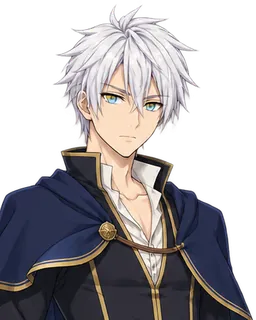
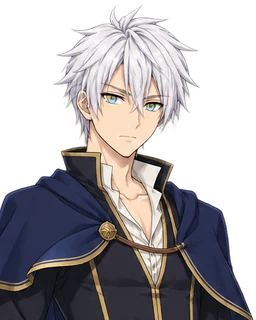
Герой: общий кадр на все эмоции, нативное разрешение (q92), видимая высота vh в раскладке VN

diff --git a/js/portrait.js b/js/portrait.js
@@ -303,16 +303,16 @@ RPG.avatarOf = (manifest, art) => (manifest && manifest.av && manifest.av[art]) 
 RPG.VN = { FR_W: 1800, FR_CX: 900, FR_T: 220, BUST: 720, SINK: 140, SLOTS: { 1: [0.5], 2: [0.28, 0.72], 3: [0.17, 0.5, 0.83] }, FACE_K: { 1: 0.5, 2: 0.4, 3: 0.3 } };
 RPG.artMetricsOf = (manifest, art, mood) => {
   const f = RPG.artFileOf(manifest, art, mood), d = f && manifest.dim && manifest.dim[f];
-  if (d && d.length >= 6) return { w: d[0], h: d[1], fx: d[3], fy: d[4], fw: d[5], img: true };
-  if (d) return { w: d[0], h: d[1], fx: d[0] / 2, fy: d[1] * 0.18, fw: d[0] * 0.32, img: true };
-  return { w: 256, h: 320, fx: 128, fy: 100, fw: 130, img: false };
+  if (d && d.length >= 6) return { w: d[0], h: d[1], fx: d[3], fy: d[4], fw: d[5], vh: d[8] || d[1], img: true };   // vh — видимая высота кадра (герой в рост: ниже — под диалогом); у остальных = h
+  if (d) return { w: d[0], h: d[1], fx: d[0] / 2, fy: d[1] * 0.18, fw: d[0] * 0.32, vh: d[1], img: true };
+  return { w: 256, h: 320, fx: 128, fy: 100, fw: 130, vh: 320, img: false };
 };
 RPG.vnLayout = (refs, W, Yb) => {
   const V = RPG.VN, n = refs.length; if (!n) return [];
   let Ft = V.FACE_K[Math.min(3, n)] * W;
-  refs.forEach((r) => { Ft = Math.min(Ft, ((Yb - 58) / ((r.h - r.fy) + 0.75 * r.fw - V.SINK)) * r.fw); });   // голова не уходит за верх экрана
+  refs.forEach((r) => { Ft = Math.min(Ft, ((Yb - 58) / (((r.vh || r.h) - r.fy) + 0.75 * r.fw - V.SINK)) * r.fw); });   // голова не уходит за верх экрана
   return refs.map((r, i) => {
-    const s = Ft / r.fw, ext = V.SINK, frH = V.FR_T + r.h, slot = V.SLOTS[Math.min(3, n)][Math.min(2, i)];
+    const s = Ft / r.fw, ext = V.SINK, frH = V.FR_T + (r.vh || r.h), slot = V.SLOTS[Math.min(3, n)][Math.min(2, i)];
     return { s, x: slot * W - V.FR_CX * s, y: Yb + ext * s - frH * s, frH, face: Ft };
   });
 };

diff --git a/tools/import-hero.py b/tools/import-hero.py
@@ -1,83 +1,75 @@
 #!/usr/bin/env python3
-"""Точечный импорт «обычного» облика героя (не демона): /workspace/vn-art/newhero/hero_<mood>.png (настоящие PNG с альфой, 1024×1536) ->
-assets/vn/hero_<mood>.webp тем же пайплайном, что tools/import-art.py (бюст 720 px по высоте, кадр по bbox альфы, масштаб FS=0.7, геометрия лица tools/geom.py),
-но БЕЗ вырезания фона и без пересборки остальных портретов: обновляет только записи hero_* в manifest.json (portraits/dim/src/pre/v).
-hero_despair = hero_sad (старый ключ). hero_demon не трогается. Запуск: python3 tools/import-hero.py [папка]"""
+"""Импорт героя (не вырезание фона: исходники — настоящие PNG с альфой 1024×1536): /workspace/vn-art/newhero (обычный облик, cid hero) и /workspace/vn-art/newdemon (форма Короля, cid hero_demon)
+-> assets/vn/hero_<mood>.webp / hero_demon_<mood>.webp. Обновляет только записи героя в manifest.json (portraits/dim/src/pre/av/v); остальные портреты не трогает.
+Ключевые свойства (v2.5.2):
+  • ОДИН кадр на все эмоции формы: общий bbox объединения альф всех эмоций → одинаковый размер холста, масштаб и якорь (плечи/ноги не прыгают при смене эмоции);
+  • родное разрешение исходника (никакого даунскейла): файл = кроп исходника 1:1, webp q=92, alpha_quality=100;
+  • лицо (fx, fy, fw) — консенсус каскада lbpcascade_animeface по всем эмоциям и ОДНО значение для всех файлов формы; логические единицы раскладки: лицо = 240 (как у остальных бюстов);
+  • dim = [w, h, 1, fx, fy, fw, x0, y0, vh, fs]: vh — «видимая высота» кадра в логических единицах (герой в рост до бёдер, ниже — под диалогом), fs — масштаб файла к логическим единицам.
+Запуск: python3 tools/import-hero.py normal|demon"""
 import os, sys, json, hashlib
 from PIL import Image
 import numpy as np
+import cv2
 HERE = os.path.dirname(os.path.abspath(__file__)); ROOT = os.path.dirname(HERE); OUT = os.path.join(ROOT, 'assets', 'vn')
 FORM = sys.argv[1] if len(sys.argv) > 1 else 'normal'          # normal — обычный облик (cid hero), demon — форма Короля Демонов (cid hero_demon)
 CFG = {'normal': dict(src='/workspace/vn-art/newhero', pre='hero_', cid='hero', alias={'despair': 'sad'}),
        'demon': dict(src='/workspace/vn-art/newdemon', pre='herod_', cid='hero_demon', alias={})}[FORM]
 SRC = sys.argv[2] if len(sys.argv) > 2 else CFG['src']
-sys.path.insert(0, HERE); import geom
-import cv2
 CASCADE = cv2.CascadeClassifier(os.path.join(HERE, 'data', 'lbpcascade_animeface.xml'))
-PORT_H, Q, AQ, FS = 720, 74, 68, 0.7
 MOODS = ['neutral', 'angry', 'sad', 'smirk', 'shy', 'surprised']
+Q, AQ = 92, 100
+FACE_W = 240.0          # лицо в логических единицах раскладки (как у остальных бюстов)
+BODY_FW = 3.8           # от центра лица вниз до линии «под диалогом» — в ширинах лица (бёдра/верх бедра)
 
-def silhouette_estimate(alpha):
-    a = np.asarray(alpha) > 127; h, w = a.shape
-    est = 0.45 * float(np.sqrt(a.sum())); rows = np.where(a.sum(axis=1) > 6)[0]; top = int(rows[0]) if len(rows) else 0
-    hb = a[top: top + max(30, int((h - top) * 0.3))]; ys, xs = np.where(hb)
-    return (float(xs.mean()) if len(xs) else w / 2, top + 0.62 * est, est)
-
-def detect_faces(rgb, alpha, minsz=40):
-    a = np.asarray(alpha) > 127; h, w = a.shape; est = 0.45 * float(np.sqrt(a.sum())); out = []
-    g = cv2.equalizeHist(cv2.cvtColor(np.asarray(rgb), cv2.COLOR_RGB2GRAY))
-    for r in CASCADE.detectMultiScale(g, scaleFactor=1.05, minNeighbors=2, minSize=(minsz, minsz)):
+def detect_faces(raw):
+    bg = Image.new('RGB', raw.size, (128, 128, 128)); bg.paste(raw, mask=raw.getchannel('A'))
+    g = cv2.equalizeHist(cv2.cvtColor(np.asarray(bg), cv2.COLOR_RGB2GRAY)); a = np.asarray(raw.getchannel('A')) > 127; h, w = a.shape; out = []
+    for r in CASCADE.detectMultiScale(g, scaleFactor=1.05, minNeighbors=2, minSize=(60, 60)):
         x, y, ww, hh = [int(v) for v in r]
-        if y + hh / 2 > h * 0.6 or not (0.3 * est <= ww <= 1.5 * est): continue
-        if not a[min(h - 1, y + hh // 2), min(w - 1, x + ww // 2)]: continue
+        if y + hh / 2 > h * 0.6 or not (80 <= ww <= 400) or not a[min(h - 1, y + hh // 2), min(w - 1, x + ww // 2)]: continue
         out.append((x + ww / 2, y + hh / 2, float(ww)))
     return out
 
-RAW, DET = {}, {}
-for m in MOODS:
-    raw = Image.open(os.path.join(SRC, CFG['pre'] + m + '.png')).convert('RGBA'); RAW[m] = raw
-    bg = Image.new('RGB', raw.size, (128, 128, 128)); bg.paste(raw, mask=raw.getchannel('A'))      # детекция лица — на исходном разрешении
-    DET[m] = detect_faces(bg, raw.getchannel('A'), 60)
-alphas = {m: RAW[m].getchannel('A') for m in MOODS}
-res, how, T = geom.solve(alphas, lambda mn: DET[mn], silhouette_estimate)
-print('лица (исходные px):', {m: (tuple(round(v) for v in res[m]), how[m]) for m in MOODS})
-# Исходник — персонаж в полный рост (1024×1536, голова ≈170 px). Остальные бюсты в игре: высота 720, лицо ≈240 логических px (раскладка VN выравнивает головы по fw).
-# Поэтому масштабируем так, чтобы лицо героя стало FACE_W логических px, и берём верхние PORT_H строк (голова + грудь/плечи) — тот же кадр, что у прежних бюстов, и родное разрешение (FS·k ≈ 1).
-FACE_W = 240.0; K = FACE_W / res['neutral'][2]
-CUT = {}
-for m in MOODS:
-    raw = RAW[m]; im = raw.resize((round(raw.width * K), round(raw.height * K)), Image.LANCZOS); CUT[m] = im.crop((0, 0, im.width, PORT_H))
-    fx, fy, fw = res[m]; res[m] = (fx * K, fy * K, fw * K)
-print('масштаб K=%.3f, исходник %s -> %s' % (K, RAW['neutral'].size, CUT['neutral'].size))
+RAW = {m: Image.open(os.path.join(SRC, CFG['pre'] + m + '.png')).convert('RGBA') for m in MOODS}
+assert len({im.size for im in RAW.values()}) == 1, 'размеры исходников различаются'
+dets = [d for m in MOODS for d in detect_faces(RAW[m])]
+assert dets, 'лицо не найдено'
+fx, fy, fw = (float(np.median([d[i] for d in dets])) for i in range(3))
+print('лицо (исходные px): центр (%.0f, %.0f) ширина %.0f по %d детекциям' % (fx, fy, fw, len(dets)))
+# общий кадр: объединение альф всех эмоций (+ отступ)
+bbs = [im.getchannel('A').point(lambda v: 255 if v > 8 else 0).getbbox() for im in RAW.values()]
+W0, H0 = RAW['neutral'].size; pad = 4
+x0 = max(0, min(b[0] for b in bbs) - pad); y0 = max(0, min(b[1] for b in bbs) - pad); x1 = min(W0, max(b[2] for b in bbs) + pad); y1 = min(H0, max(b[3] for b in bbs) + pad)
+cw, ch = x1 - x0, y1 - y0; K = FACE_W / fw
+dims = [round(cw * K), round(ch * K), 1, round((fx - x0) * K), round((fy - y0) * K), round(FACE_W), round(x0 * K), round(y0 * K), 0, round(1 / K, 4)]
+dims[8] = min(dims[1], round(dims[4] + BODY_FW * FACE_W))
+print('кадр %dx%d px (из %dx%d) -> логические %dx%d, K=%.3f, видимая высота vh=%d' % (cw, ch, W0, H0, dims[0], dims[1], K, dims[8]))
 
 man_path = os.path.join(OUT, 'manifest.json'); man = json.load(open(man_path))
+for d in (man['dim'], man['src']): d.pop('hero_despair.webp', None)      # v2.5.1 хранил дубль файла despair — теперь алиас на hero_sad.webp
 cid = CFG['cid']; files = {}
 def webp_name(m): return ('hero_%s.webp' % m) if FORM == 'normal' else ('hero_demon_%s.webp' % m)
 for m in MOODS:
-    k = CUT[m]; fx, fy, fw = res[m]
-    bb = k.getchannel('A').point(lambda v: 255 if v > 10 else 0).getbbox()
-    pad = max(6, int(0.02 * k.size[0])); x0 = max(0, bb[0] - pad); x1 = min(k.size[0], bb[2] + pad); y0 = max(0, bb[1] - pad)
-    kk = k.crop((x0, y0, x1, k.size[1])); fx -= x0; fy -= y0; w, h = kk.size    # низ — кадр целиком (уходит под окно диалога)
-    dims = [w, h, 1, round(fx), round(fy), round(fw), x0, y0]
-    sig = 'm6n-' + hashlib.md5(open(os.path.join(SRC, CFG['pre'] + m + '.png'), 'rb').read()).hexdigest()[:10]
-    names = [webp_name(m)] + [webp_name(a) for a, t in CFG['alias'].items() if t == m]
-    for name in names:
-        kk.resize((max(1, round(w * FS)), max(1, round(h * FS))), Image.LANCZOS).save(os.path.join(OUT, name), 'WEBP', quality=Q, method=6, alpha_quality=AQ, exact=False)
-        man['dim'][name] = dims; man['src'][name] = sig; files[name] = os.path.getsize(os.path.join(OUT, name)) // 1024
+    sig = 'n1-' + hashlib.md5(open(os.path.join(SRC, CFG['pre'] + m + '.png'), 'rb').read()).hexdigest()[:10]
+    crop = RAW[m].crop((x0, y0, x1, y1))
+    for name in [webp_name(m)]:
+        crop.save(os.path.join(OUT, name), 'WEBP', quality=Q, method=6, alpha_quality=AQ, exact=False)
+        man['dim'][name] = list(dims); man['src'][name] = sig; files[name] = os.path.getsize(os.path.join(OUT, name)) // 1024
     man['portraits'].setdefault(cid, {})[m] = webp_name(m)
     for a, t in CFG['alias'].items():
-        if t == m: man['portraits'][cid][a] = webp_name(a)
-    if m == 'neutral':       # аватар для маленьких карточек (профиль, бой, список слотов): кроп лица ~ 4:5, 256 px по ширине
-        cw = 2.3 * fw; ch = cw * 1.25; ax = min(max(0, fx + x0 - cw / 2), k.size[0] - cw); ay = min(max(0, fy + y0 - 1.05 * fw), k.size[1] - ch)
-        av = k.crop((round(ax), round(ay), round(ax + cw), round(ay + ch))).resize((256, 320), Image.LANCZOS)
-        an = cid + '_av.webp'; av.save(os.path.join(OUT, an), 'WEBP', quality=80, method=6, alpha_quality=80, exact=False)
+        if t == m: man['portraits'][cid][a] = webp_name(m)      # алиас despair -> тот же файл hero_sad.webp (без дубля в весе и прекэше)
+    if m == 'neutral':       # аватар для маленьких карточек (профиль, бой, слоты, список): кроп лица 4:5, 256×320
+        aw = 2.3 * fw; ah = aw * 1.25; ax = min(max(0, fx - aw / 2), W0 - aw); ay = min(max(0, fy - 1.05 * fw), H0 - ah)
+        av = RAW[m].crop((round(ax), round(ay), round(ax + aw), round(ay + ah))).resize((256, 320), Image.LANCZOS)
+        an = cid + '_av.webp'; av.save(os.path.join(OUT, an), 'WEBP', quality=88, method=6, alpha_quality=100, exact=False)
         man.setdefault('av', {})[cid] = an; man['src'][an] = sig; files[an] = os.path.getsize(os.path.join(OUT, an)) // 1024
-if FORM == 'demon':          # старый ключ hero.demon -> нейтральный облик Короля (прежний hero_demon.webp заменён)
+if FORM == 'demon':          # старый ключ hero.demon -> нейтральный облик Короля
     man['portraits']['hero']['demon'] = 'hero_demon_neutral.webp'
     for d in (man['dim'], man['src']): d.pop('hero_demon.webp', None)
     if os.path.exists(os.path.join(OUT, 'hero_demon.webp')): os.remove(os.path.join(OUT, 'hero_demon.webp'))
-print('записано (KB):', files)
-man['pre'] = sorted(set(list(man['cg'].values()) + [v['neutral'] for v in man['portraits'].values() if 'neutral' in v] + list(man.get('av', {}).values()) + list(man['portraits']['hero'].values()) + list(man['portraits'].get('hero_demon', {}).values())))   # аватары и все эмоции героя — в прекэш (офлайн)
+print('записано (KB):', files, '| сумма', sum(files.values()), 'KB')
+man['pre'] = sorted(set(list(man['cg'].values()) + [v['neutral'] for v in man['portraits'].values() if 'neutral' in v] + list(man.get('av', {}).values()) + list(man['portraits']['hero'].values()) + list(man['portraits'].get('hero_demon', {}).values())))
 man['v'] = hashlib.md5(json.dumps([man['portraits'], man['cg'], man['src'], man['dim'], man.get('av')], sort_keys=True).encode()).hexdigest()[:8]
 json.dump(man, open(man_path, 'w'), ensure_ascii=False, separators=(',', ':'), sort_keys=True)
 print('manifest v', man['v'], man['portraits'][cid])
